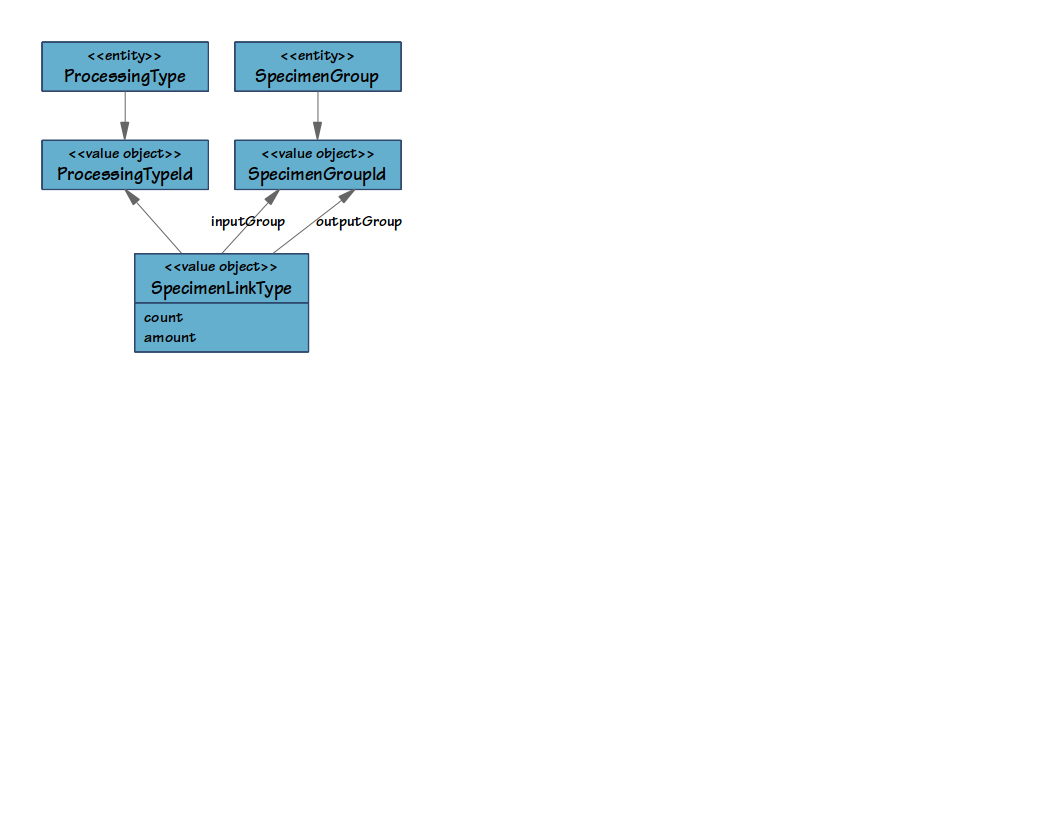
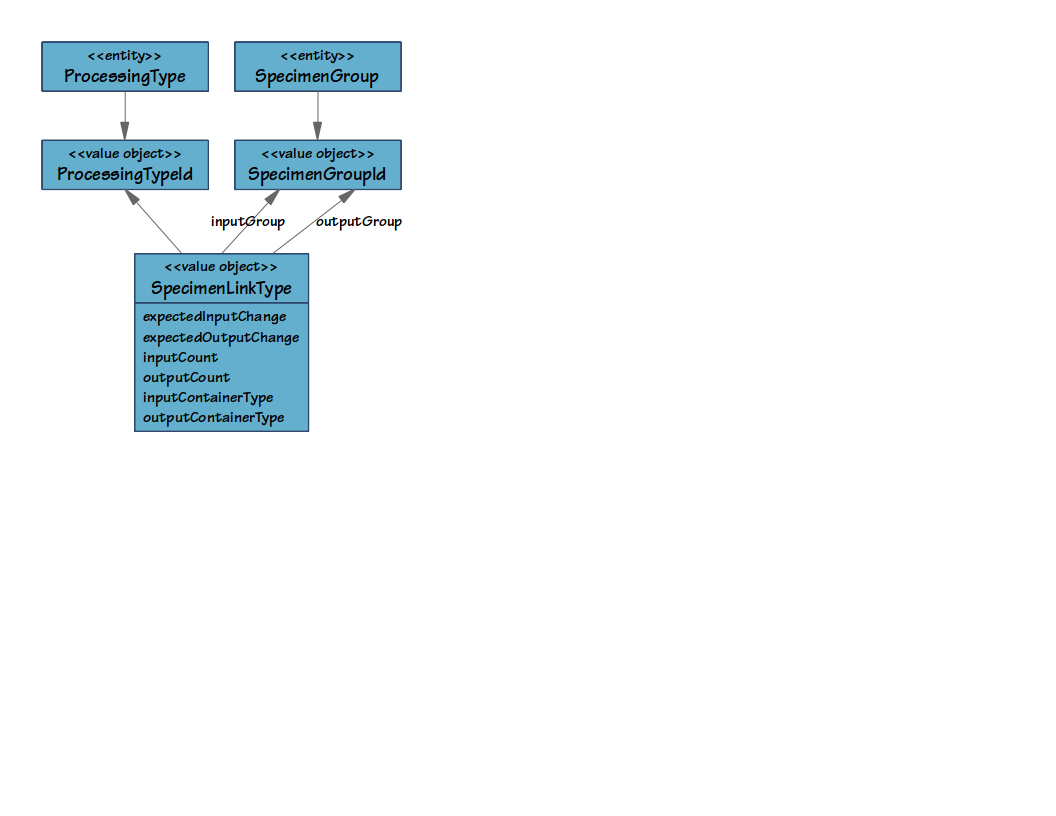
more command content

Changed region(s): [[0.125, 0.3676, 0.3125, 0.5515]]

diff --git a/study-management.tex b/study-management.tex
@@ -33,16 +33,19 @@
 
     A study may have one or more comments assigned to it during it's lifetime.
 
+    Note: this aggregate has other associations that are introduced in later
+    sections.
+
   \item[\entitytarget{SpecimenGroup}] \hfill \\ Ownership, summary, storage,
     and classification information that applies to an entire group or
     collection of \entitylink{Specimen}s.
 
-    The anatomical source, preservation medium and specimen type are defined
-    using other value objects discussed in Section \ref{sec:specimen-group}.
-
     This entity is used to record the specimen types used by the study. It can
     specify the specimens collected from participants, and the specimens that
     are processed from them.
+
+    The anatomical source, preservation medium and specimen type are defined
+    using other value objects discussed in Section \ref{sec:specimen-group}.
 
   \item[\entitytarget{CollectionEventType}] \hfill \\ A classification name,
     unique to the \entitylink{Study}, for a visit by study participants. For
@@ -72,7 +75,7 @@ via the \entitylink{Study} aggregate.
 
 \begin{figure}[h]
   \centering
-  \includegraphics[trim={9mm 110mm 80mm 9mm}, clip,
+  \includegraphics[trim={9mm 162mm 80mm 9mm}, clip,
     width=1\textwidth]{images/specimen-group}
   \caption{SpecimenGroup entity}
   \label{fig:specimen-group}
@@ -80,28 +83,25 @@ via the \entitylink{Study} aggregate.
 
 \begin{description}
 
-  \item[\valobjtarget{AnatomicalSource}] \hfill \\ A standardized set of
-    regions of a \entitylink{Participant} \emph{where} a \entitylink{Specimen}
-    is collected from. Potential examples include: colon, ear, leg, kidney,
-    etc.
+  \item[\valobjtarget{AnatomicalSourceId}] \hfill \\ The ID belonging to a
+    \valobjlink{AnatomicalSource} which is a standardized set of regions from a
+    \entitylink{Participant} \emph{where} a \entitylink{Specimen} is collected
+    from. Potential examples include: colon, ear, leg, kidney, etc.
 
-  \item[\valobjtarget{Preservation}] \hfill \\ Describes how a
+  \item[\valobjtarget{PreservationId}] \hfill \\ The ID belonging to a
+    \valobjlink{Preservation} value object which describes how a
     \entitylink{Specimen} should be preserved/stored by describing temperature
     requirements ($^\circ$C), as well as a preservation method (see
     \valobjlink{PreservationType}).
 
-  \item[\valobjtarget{PreservationType}] \hfill \\ A standardized set of
-    methods for preserving and storing \entitylink{Specimen}s.  Potential
-    examples include: frozen specimen, RNA later, fresh specimen, slide, etc.
-
-  \item[\valobjtarget{SpecimenType}] \hfill \\ A standardized set of
-    classifications that describe \emph{what} a \entitylink{Specimen}
-    is. Potential examples include: urine, whole blood, plasma, nail, protein,
-    etc.
+  \item[\valobjtarget{SpecimenTypeId}] \hfill \\ The ID belonging to a
+    \valobjlink{SpecimenType} which is standardized set of classifications that
+    describe \emph{what} a \entitylink{Specimen} is. Potential examples
+    include: urine, whole blood, plasma, nail, protein, etc.
 
 \end{description}
 
-\subsection{CollectionEventType}
+\subsection{CollectionEventType Details}
 \label{sec:collection-event-type}
 
 The \texttt{\textbf{\valobjtarget{SpecimenGroupCollectionEventType}}} value
@@ -117,70 +117,105 @@ object is used to define which types of specimens (i.e. which
   \label{fig:collection-event-type}
 \end{figure}
 
-\subsection{ProcessingType}
+The count specifies how many specimens are to be collected. Amount is the
+amount of substance that is expected in each collected specimen, or null if
+there is no default amount.
+\clearpage
+
+\subsection{ProcessingType Details}
 \label{sec:Processing-type}
 
-The \texttt{\textbf{\valobjtarget{SpecimenLinkType}}} represents a regularly
-performed processing procedure involving two \entitylink{Specimen}s: an input,
-which must be in a specific \valobjlink{SpecimenGroup}, and an output, which
-must be in a specific \valobjlink{SpecimenGroup}.
-
-The count specifies how many preservation types (e.g. tubes, FTA cards, etc.) are to
-be collected. The amount is the volume required for each preservation type when
-applicable. When not applicable the amount is set to zero.
+The \texttt{\textbf{\valobjtarget{SpecimenLinkType}}} entity represents a
+regularly performed processing procedure involving two \entitylink{Specimen}s:
+an input, which must be in a specific \valobjlink{SpecimenGroup}, and an
+output, which must be in a specific \valobjlink{SpecimenGroup}.
 
 \begin{figure}[H]
   \centering
-  \includegraphics[trim={9mm 120mm 172mm 9mm}, clip,
+  \includegraphics[trim={9mm 100mm 172mm 9mm}, clip,
     width=0.6\textwidth]{images/processing-type}
   \caption{Association processing types with specimen groups}
   \label{fig:processing-type}
 \end{figure}
 
+The expectedInputChange is the expected amount (decimal value) to be removed
+from each input. The expectedOutputChange is also the expected amount to be
+added to each output. The expected input and output change values can be zero.
+The counts in inputCount and outputCount are the number of expected specimens
+when the processing is carried out. A value of zerof for output count implies
+that the count is the same as the input count. The specimen container type that
+holds the input specimens is given in inputContainerType. The specimen
+container type that the output specimens are stored into is given in
+outputContainerType. If specifying the container types is not required for one
+or both of these fields they can be assigned the \texttt{null} value.
+
+To avoid redundancy, a specimen link type may exist only once for a given input
+and output specimen group.
+
 \section {Study Aggregate Commands}
+These are the commands used to configure a study.
 
-\subsection{StudyCreateCommand}
+\begin{description}
 
-This command is used to create a study. The arguments are:
+    \item[StudyCreateCommand] \hfill \\ Used to create a study. The arguments
+      are: \texttt{name (String)} and \texttt{description (String)}. The name
+      used to refer to the study and is usually an acronym. The description
+      describes the study and is usually the words that make up the acronym.
 
-\begin{commandargtable}
+    \item[StudyUpdateCommand] \hfill \\ Used to create a study. The arguments
+      are: \texttt{studyId (String)}, \texttt{name (String)} and
+      \texttt{description (String)}. The studyId is the unique identifier for
+      the study. The name contains the updated name or the current name if no
+      update is required. The description contains the updated description or
+      the current description if no update is required.
 
-  name & String & The name used to refer to the study, usually an acronym.\\
+    \item[StudyEnableCommand] \hfill \\ Used to enable a study. Once enabled
+      the study is ready to collect and process specimens from
+      participants. The single argument is \texttt{studyId (String)} which is
+      the unique identifier for the study.
 
-  description & String & A more detailed name used to describe the study,
-  usually the words that make up the acronym.\\
+    \item[StudyDisableCommand] \hfill \\ Used to disable a study. Once disabled
+      the study can no longer collect and / or process specimens from
+      participants. The single arguments is \texttt{studyId (String)} which is
+      the unique identifier for the study.
 
-\end{commandargtable}
+    \item[CreateSpecimenGroupCommand] \hfill \\ Used to create
+      a specimen group in a study. The arguments are: \texttt{studyId
+	(String)}, \texttt{name (String)}, \texttt{description (String)},
+      \texttt{anatomicalSourceId (String)}, \texttt{preservationId (String)},
+      and \texttt{specimenTypeId (String)}. The studyId is the unique
+      identifier for the study. The name describes the specimen group. The
+      description provides more details for the speciment group.  The
+      anatomicalSourceId is used to identify anatomical source on the
+      participants whre this group belongs to.  The preservationId is used to
+      record how this group is stored.  The specimenTypeId identifies the type
+      of specimens contained in this group.
 
-\subsection{StudyUpdateCommand}
+    \item[DeleteSpecimenGroupCommand] \hfill \\ Used to delete a specimen group
+      from the study. The arguments are: \texttt{studyId (String)} and
+      \texttt{specimenGroupId (String)}. The studyId is the unique identifier
+      for the study. The specimenGroupId is the unique identifier for the
+      specimen group.
 
-This command is used to update the name or description on a study.
+    \item[CreateCollectionEventType] \hfill \\
 
-\begin{commandargtable}
+    \item[DeleteCollectionEventType] \hfill \\
 
-  studyId & String & The unique ID associated with the study.\\
+    \item[AddSpecimenGroupToCollectionEventType] \hfill \\
 
-  name & String & The updated name or the current name if no update is required.\\
+    \item[RemoveSpecimenGroupToCollectionEventType] \hfill \\
 
-  description & String & The updated description or the current description if
-  no update is required.\\
+    \item[CreateProcessingType] \hfill \\
 
-\end{commandargtable}
+    \item[DeleteProcessingType] \hfill \\
 
-\subsection{CreateSpecimenGroupCommand}
+    \item[AddSpecimenLinkType] \hfill \\
 
-This command is used to create a specimen group in a study. The arguments are:
+    \item[RemoveSpecimenLinkType] \hfill \\
 
-\begin{commandargtable}
+    \item[] \hfill \\
 
-  studyId & String & The unique ID associated with the study.\\
+    \item[] \hfill \\
 
-  name & String & The name used to reference the group by\\
+\end{description}
 
-  description & String & A description for this group.\\
-
-  preservationName & String & The \\
-
-  temperature & BigDecimal & \\
-
-\end{commandargtable}

diff --git a/main.tex b/main.tex
@@ -95,7 +95,7 @@
 \renewcommand*{\chapnumfont}{\normalfont\Huge\bfseries\sffamily\color{Blue}}
 \renewcommand*{\chaptitlefont}{\normalfont\Huge\bfseries\sffamily\color{Blue}}
 \renewcommand*{\secheadstyle}{\normalfont\Large\bfseries\sffamily\color{Blue}}
-\renewcommand*{\subsecheadstyle}{\normalfont\Large\bfseries\sffamily\color{LightBlue}}
+\renewcommand*{\subsecheadstyle}{\normalfont\normalsize\bfseries\sffamily\color{LightBlue}}
 
 \setcounter{secnumdepth}{3}
 \setsecnumdepth{subsection}
@@ -171,10 +171,12 @@
 
 %----------------------------------------------------------------------------------------
 % environment to help with command arguments tables
+%
+% the first column is the argument name, second is the java type, and third is
+% the a description.
 %----------------------------------------------------------------------------------------
 
 \newenvironment{commandargtable}{%
-  %\vspace{6pt}
   \table[!htbp]
   \renewcommand{\arraystretch}{1.2}
   \tabularx{\textwidth}{@{} >{\itshape}l @{\hspace{6pt}} >{\ttfamily}l X }

diff --git a/introduction.tex b/introduction.tex
@@ -67,7 +67,7 @@ Biobank. Amongst these are:
 \item \textbf{Commands} (that change data) are separated from \textbf{queries}
   (that read data).
 \item Enables domain driven design by capturing the intent in the form of
-commands.
+  commands.
 \item \textbf{Event Sourcing} allows persisting of application entities as a
   sequence of events that created them. Thus, captures all business changes in a
   lossless manner.
@@ -76,3 +76,4 @@ commands.
 \item Allows for definitions of new reports that provide new insight to the
   data that has already been captured.
 \end{itemize}
+
